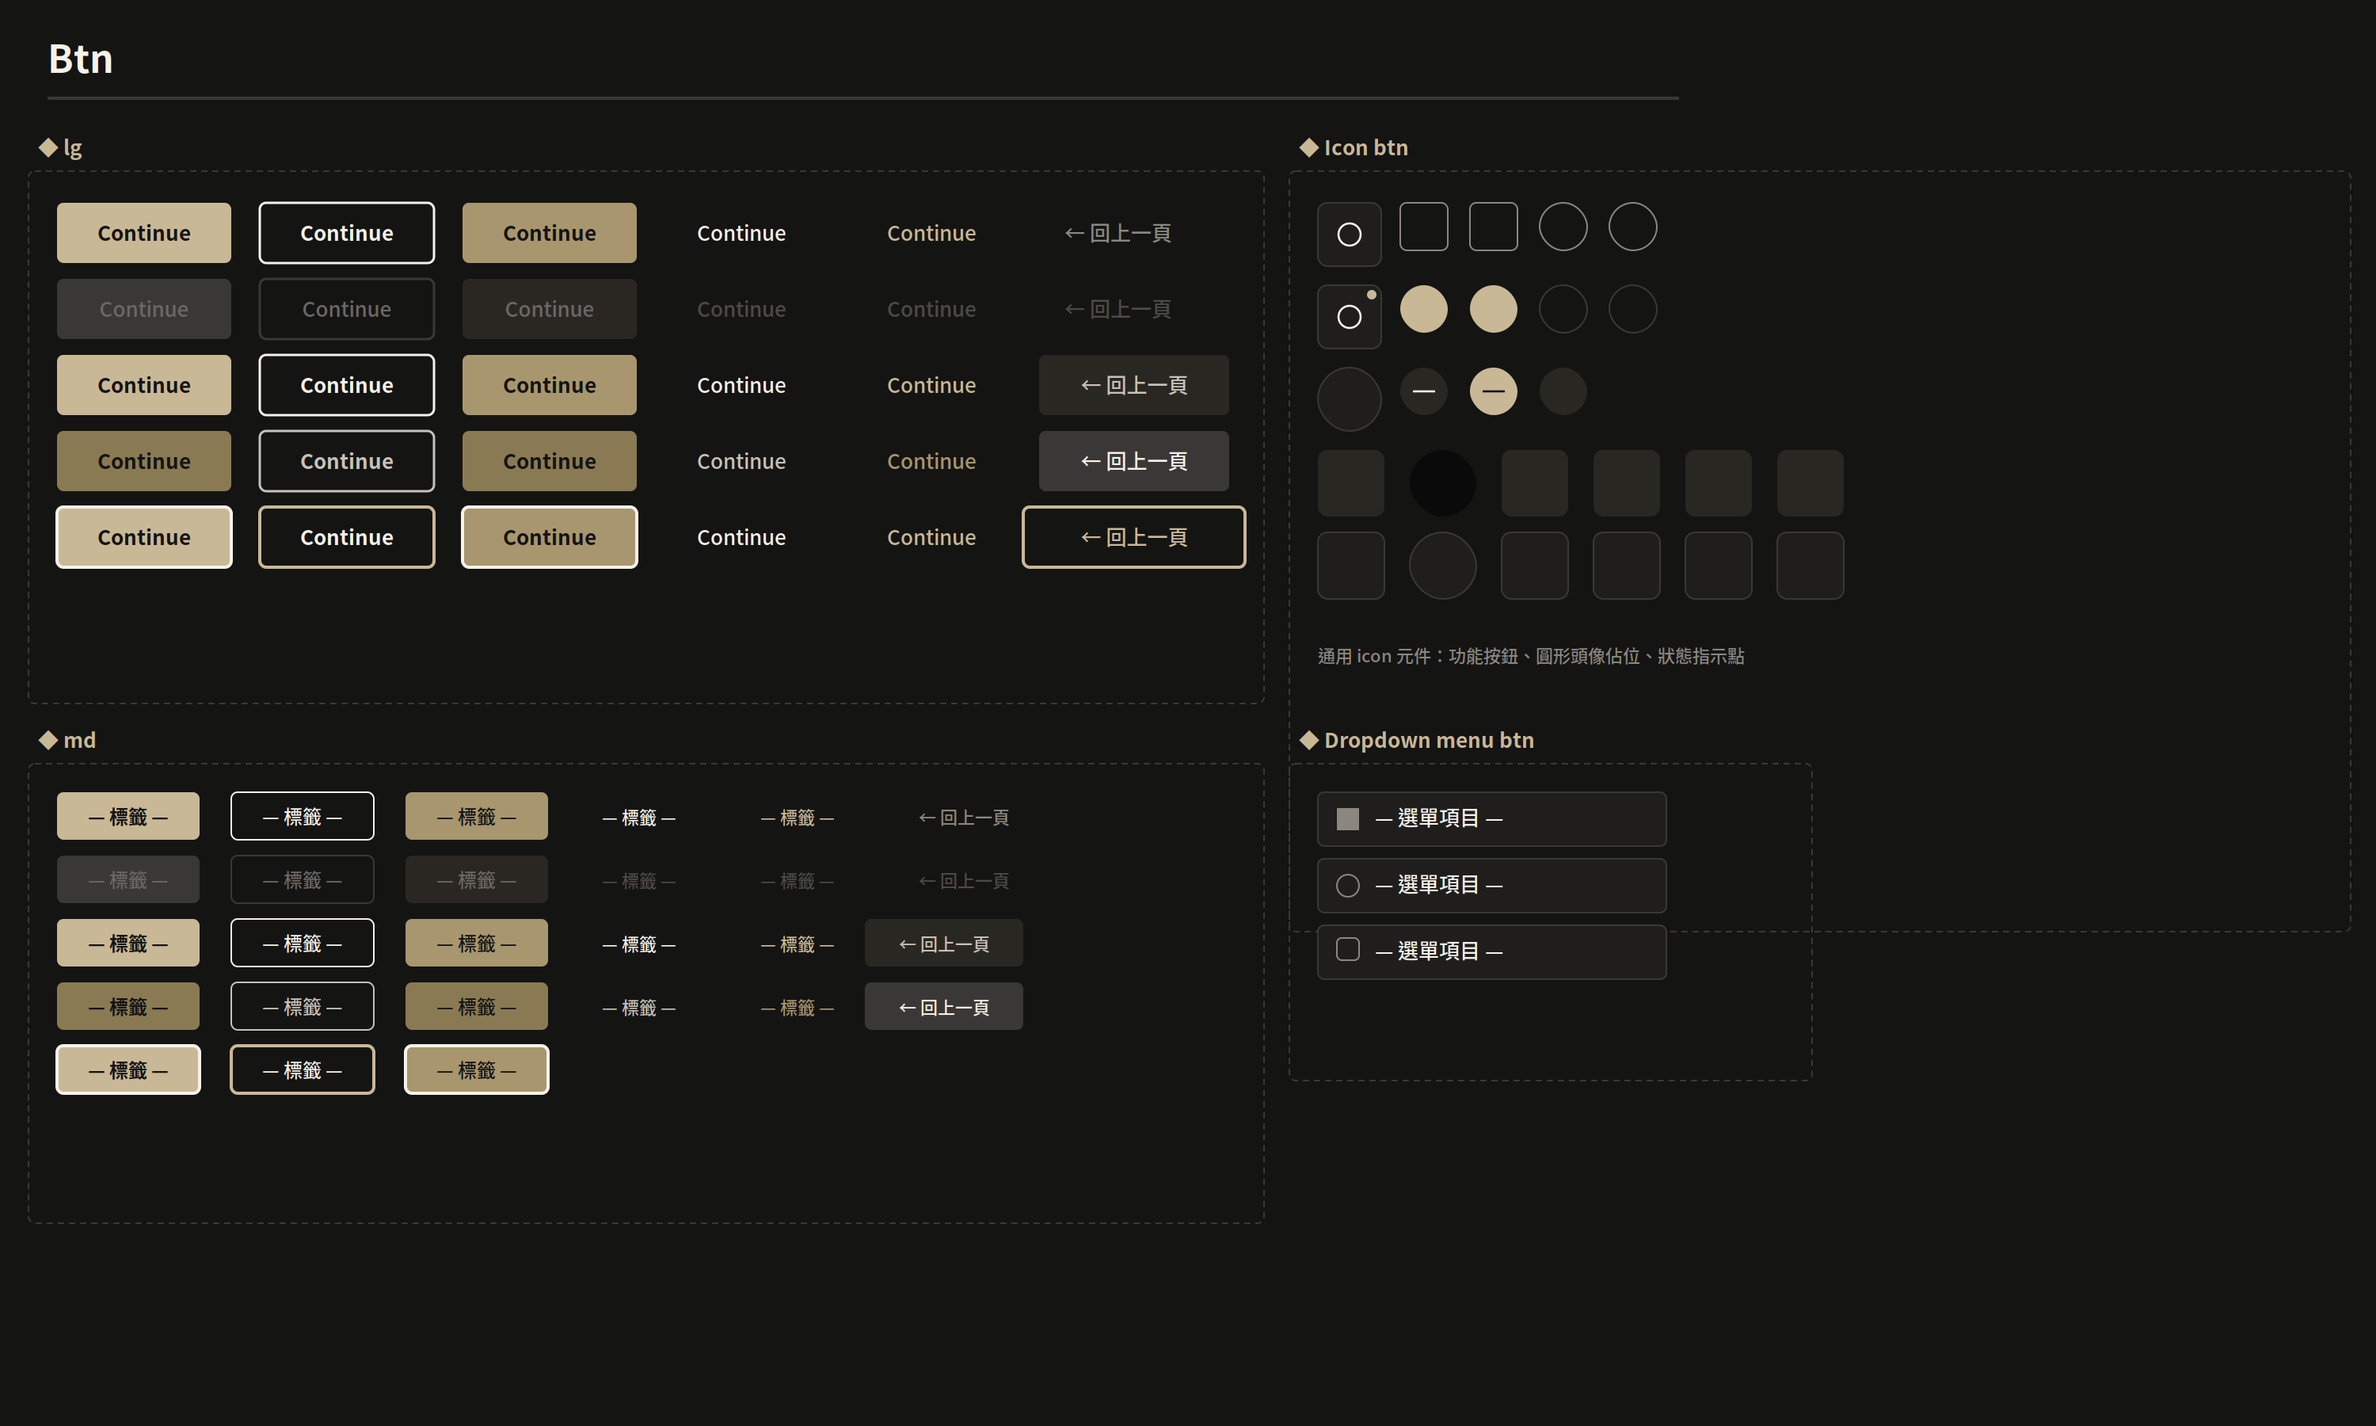
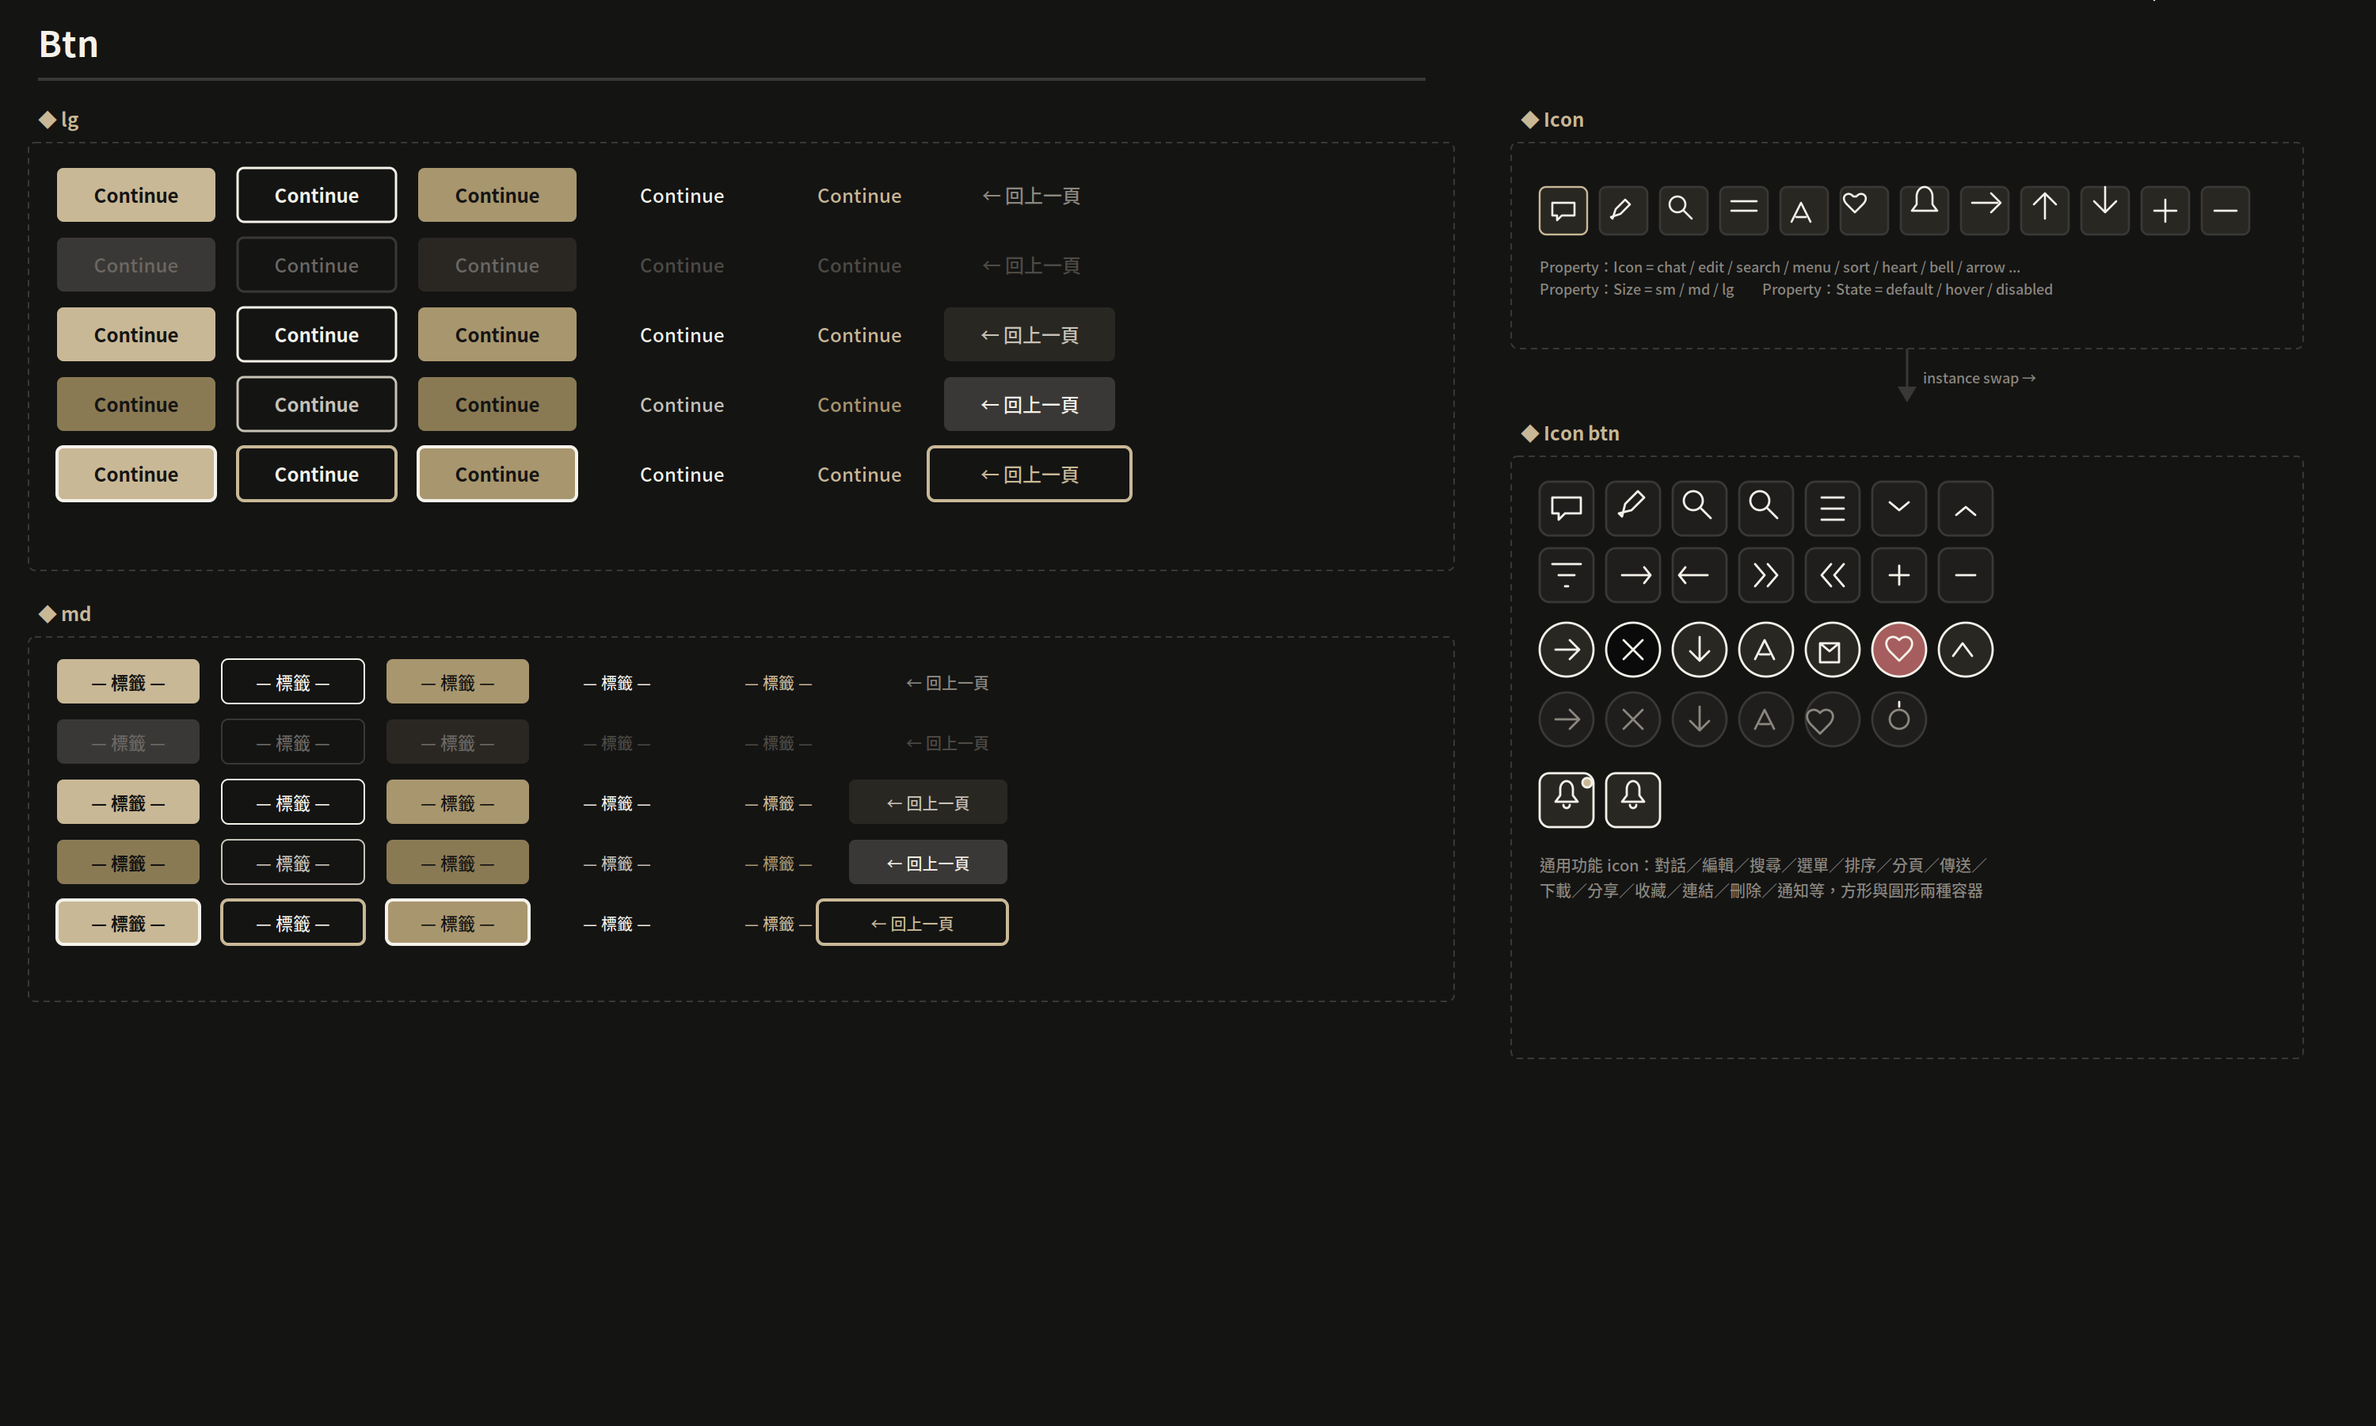
feat(channel-t): 導覽改為雙列固定 header
- 第一列：僅 wordmark（連回首頁），移除首頁按鈕與箭頭
- 第二列：12 個章節錨點單列水平排列、固定於下方，窄螢幕可水平捲動
- 主視覺錨點改名 TOP；連結字級 13→14px 提升可讀性
- 移除漢堡選單與捲動隱藏邏輯，header 恆固定；scroll-padding-top 88→120px
- 清除 nav__toggle / nav--hidden / nav__home 及相關 JS 與 !important 覆寫

diff --git a/channel-t/index.html b/channel-t/index.html
@@ -16,11 +16,14 @@
   <header class="nav" id="nav">
     <div class="nav__inner">
       <a href="../" class="nav__brand" aria-label="回到作品集首頁">Ryan Wu <span>Portfolio</span></a>
-      <button class="nav__toggle" id="navToggle" aria-label="開啟選單" aria-expanded="false">≡</button>
-      <ul class="nav__links" id="navLinks">
-        <li><a href="../" class="nav__home">← 首頁</a></li>
+    </div>
+    <nav class="subnav" aria-label="章節導覽">
+      <ul class="subnav__links">
+        <li><a href="#s1">TOP</a></li>
         <li><a href="#s2">關鍵產出</a></li>
+        <li><a href="#s3">專案概覽</a></li>
         <li><a href="#s4">問題探索</a></li>
+        <li><a href="#s5">專案限制</a></li>
         <li><a href="#s6">產品決策</a></li>
         <li><a href="#s7">UX 流程</a></li>
         <li><a href="#s8">UI 設計</a></li>
@@ -29,7 +32,7 @@
         <li><a href="#s11">商業驗證</a></li>
         <li><a href="#s12">專案回顧</a></li>
       </ul>
-    </div>
+    </nav>
   </header>
 
   <main id="top">
@@ -673,6 +676,11 @@
             <h4>一次完成上傳工作</h4>
             <p>更重要的改變，是使用者不需要等待前一個檔案解析完成，就可以繼續上傳下一份行程。即使 AI 本身的總解析時間沒有因此大幅縮短，使用者完成「上傳工作」所需要的等待與流程中斷大幅降低。這次設計真正解決的並不是 AI 的技術效能，而是<strong>將「AI 等待時間」與「使用者工作時間」解耦</strong>——系統背景處理 → 使用者持續工作 → 回頭確認結果。</p>
           </div>
+          <figure>
+            <img src="../assets/channel-t/s10-01-snackbar.png" alt="行程上架迭代示意圖：AI 解析由 Modal 改為右下角 Fixed Snackbar，背景處理並提供持續性進度回饋，使用者可離開頁面繼續工作" loading="lazy" onerror="this.style.display='none';this.nextElementSibling.style.display='flex';" />
+            <div class="figure__placeholder" style="display:none;">Modal → Fixed Snackbar — assets/channel-t/s10-01-snackbar.png</div>
+            <figcaption>行程上架：AI 解析由 Modal 改為 Fixed Snackbar，背景處理不中斷工作。<span class="figure__note">示意重製圖，非原始產品畫面</span></figcaption>
+          </figure>
         </div>
 
         <div class="block">
@@ -682,6 +690,11 @@
           <p>原先的設計，是將不同出發日期視為同一行程下的資訊，並將不同子團的資料內容整合至母團的共用欄位中——例如價格會從不同子團中抓取最低值，以「起」作為價格呈現，讓供給方與需求方透過站內聊天進一步確認細節。這樣的設計在初期可以簡化資訊呈現與資料結構，但也意味著不同子團原本各自具備的資訊被壓縮成母團層級的摘要資訊，使用者無法直接查看特定出發日期所對應的完整內容。</p>
           <p>因此，我與後端工程師重新定義母團與子團的資料關係：每一個子團依附於母團之下獨立存在，使用者可以直接依照不同出發日期查看對應的子團資訊。這使得需求方不需要再透過「最低價＋起」推測不同日期的實際內容，供需雙方在進一步聯繫時，也可以直接針對特定日期與特定行程進行溝通，降低資訊確認成本。</p>
           <p>這次資料欄位的重新檢視，也讓我們回頭比對不同資料來源所需要的資訊，重新整理共用的資料結構，使不同的行程上架方式都能建立在相同的產品資料模型上——AI 上架與系統介接只是資料進入平台的方式不同，但進入產品後應該使用一致的資料結構與使用體驗。這次迭代讓我重新認識到：UX 設計不只是處理畫面本身，當產品開始接觸真實資料後，資料結構本身也會直接影響使用者看到什麼、如何理解資訊，以及如何完成工作。</p>
+          <figure>
+            <img src="../assets/channel-t/s10-02-data-structure.png" alt="母團與子團資料結構迭代示意圖：從子團資訊壓縮為母團摘要（最低價＋起），改為每個子團依附母團獨立存在、可依出發日期查看完整內容" loading="lazy" onerror="this.style.display='none';this.nextElementSibling.style.display='flex';" />
+            <div class="figure__placeholder" style="display:none;">母團／子團資料結構 — assets/channel-t/s10-02-data-structure.png</div>
+            <figcaption>資料結構：母團／子團從摘要整合改為子團獨立、可依出發日期查看。<span class="figure__note">示意重製圖，非原始產品畫面</span></figcaption>
+          </figure>
         </div>
 
         <div class="block">
@@ -690,6 +703,11 @@
           <p>最初的設計中，行程完成解析後，需要由使用者手動設定行程標籤，這些標籤會作為後續搜尋與 AI 智能推薦的資料基礎，標籤的正確性直接影響使用者找到適合行程的效率。</p>
           <p>但實際使用後，我重新思考：如果 AI 已經能夠解析行程內容，是否還需要讓使用者花時間逐一判斷與設定標籤？因此，後續將標籤建立流程改為：AI 解析行程 → 根據既有標籤規則自動建立標籤 → 使用者確認與修改。AI 不再只是協助填入行程基本資料，也進一步參與行程分類，但我沒有完全取消人工控制，而是保留使用者修改標籤的介面。</p>
           <p>因此形成：<strong>AI 負責降低分類成本，使用者保留最終判斷權</strong>，也讓「資料建立」與「搜尋／推薦」之間形成更完整的產品閉環。</p>
+          <figure>
+            <img src="../assets/channel-t/s10-03-ai-tagging.png" alt="行程標籤迭代示意圖：從使用者手動設定標籤，改為 AI 解析行程後依既有規則自動建立標籤、再由使用者確認與修改" loading="lazy" onerror="this.style.display='none';this.nextElementSibling.style.display='flex';" />
+            <div class="figure__placeholder" style="display:none;">AI 輔助分類 — assets/channel-t/s10-03-ai-tagging.png</div>
+            <figcaption>行程標籤：從人工分類改為 AI 自動建立、使用者確認修改。<span class="figure__note">示意重製圖，非原始產品畫面</span></figcaption>
+          </figure>
         </div>
 
         <div class="block">
@@ -730,11 +748,6 @@
           <p class="block__id">S11-04</p>
           <h3>三次提案的演進</h3>
           <p>回頭看這三次提案，我認為它們其實反映了產品從概念走向市場的三個階段——從第一次的「這個產品有沒有價值？」，到第二次的「我們是否願意合作？」，再到第三次的「這個產品如何符合我們實際的商業情境？」，提案本身也隨著產品成熟度逐步從概念驗證走向商業驗證。而對我而言，這也完成了從研究使用者問題、定義產品策略、設計產品，到驗證產品價值的一個完整產品設計循環。</p>
-          <figure>
-            <img src="../assets/channel-t/s11-04-proposal-evolution.svg" alt="三次客戶提案的演進示意圖：從「產品有沒有價值」、「是否願意合作」到「如何符合實際商業情境」，對應概念驗證到商業驗證的三個階段" loading="lazy" onerror="this.style.display='none';this.nextElementSibling.style.display='flex';" />
-            <div class="figure__placeholder" style="display:none;">三次提案演進 — assets/channel-t/s11-04-proposal-evolution.svg</div>
-            <figcaption>三次提案的演進：從概念驗證逐步走向商業驗證。<span class="figure__note">示意重製圖，非原始產品畫面</span></figcaption>
-          </figure>
         </div>
       </div>
     </section>
@@ -803,42 +816,6 @@
 
   <script>
     (function () {
-      // 漢堡選單開合
-      var toggle = document.getElementById('navToggle');
-      var links = document.getElementById('navLinks');
-      if (toggle && links) {
-        toggle.addEventListener('click', function () {
-          var open = links.classList.toggle('is-open');
-          toggle.setAttribute('aria-expanded', open ? 'true' : 'false');
-        });
-        // 點擊連結後收合選單
-        links.addEventListener('click', function (e) {
-          if (e.target.tagName === 'A') {
-            links.classList.remove('is-open');
-            toggle.setAttribute('aria-expanded', 'false');
-          }
-        });
-      }
-
-      // 向下滾動隱藏 nav、向上滾動顯示
-      var nav = document.getElementById('nav');
-      var lastY = window.pageYOffset;
-      var ticking = false;
-      window.addEventListener('scroll', function () {
-        if (ticking) return;
-        ticking = true;
-        window.requestAnimationFrame(function () {
-          var y = window.pageYOffset;
-          if (y > lastY && y > 200 && !links.classList.contains('is-open')) {
-            nav.classList.add('nav--hidden');
-          } else {
-            nav.classList.remove('nav--hidden');
-          }
-          lastY = y;
-          ticking = false;
-        });
-      });
-
       // 圖片 Lightbox：點擊任一張圖放大檢視
       var lb = document.getElementById('lightbox');
       var lbImg = document.getElementById('lightboxImg');

diff --git a/style.css b/style.css
@@ -37,7 +37,7 @@
 
 html {
   scroll-behavior: smooth;
-  scroll-padding-top: 88px;
+  scroll-padding-top: 120px;
   -webkit-text-size-adjust: 100%;
 }
 
@@ -198,15 +198,12 @@ blockquote p {
   transition: transform 0.3s ease;
 }
 
-.nav.nav--hidden {
-  transform: translateY(-100%);
-}
-
+/* 第一列：wordmark + 首頁（space-between） */
 .nav__inner {
   max-width: var(--maxw);
   margin-inline: auto;
   padding: 0 var(--pad-desktop);
-  height: 64px;
+  height: 56px;
   display: flex;
   align-items: center;
   justify-content: space-between;
@@ -223,37 +220,65 @@ blockquote p {
   color: var(--sand);
 }
 
-.nav__links {
+/* 第二列：章節錨點，一列水平排列、固定於 wordmark 列下方 */
+.subnav {
+  border-top: 1px solid var(--stone-700);
+}
+
+.subnav__links {
   display: flex;
   align-items: center;
   gap: 26px;
+  list-style: none;
+  margin: 0 auto;
+  max-width: var(--maxw);
+  padding: 0 var(--pad-desktop);
+  height: 48px;
+  overflow-x: auto;
+  scrollbar-width: none;
+  -ms-overflow-style: none;
+}
+
+.subnav__links::-webkit-scrollbar {
+  display: none;
+}
+
+.subnav__links li {
+  margin: 0;
+}
+
+.subnav__links a {
+  color: var(--stone-300);
+  font-size: 14px;
+  letter-spacing: 0.02em;
+  white-space: nowrap;
+  transition: color 0.2s ease;
+}
+
+.subnav__links a:hover {
+  color: var(--sand);
+}
+
+/* 登陸頁單一連結列 */
+.nav__links {
+  display: flex;
+  align-items: center;
+  gap: 22px;
   list-style: none;
   margin: 0;
   padding: 0;
 }
 
 .nav__links a {
-  color: var(--stone-500);
+  color: var(--stone-300);
   font-size: 14px;
-  letter-spacing: 0.03em;
+  letter-spacing: 0.02em;
+  white-space: nowrap;
   transition: color 0.2s ease;
 }
 
 .nav__links a:hover {
   color: var(--stone-100);
-}
-
-.nav__toggle {
-  display: none;
-  background: none;
-  border: 1px solid var(--stone-700);
-  border-radius: var(--radius);
-  color: var(--stone-100);
-  width: 40px;
-  height: 36px;
-  cursor: pointer;
-  font-size: 16px;
-  line-height: 1;
 }
 
 /* --------------------------------------------------------------------------
@@ -584,10 +609,6 @@ figcaption {
 /* --------------------------------------------------------------------------
    登陸頁（landing）
    -------------------------------------------------------------------------- */
-.nav__home {
-  color: var(--stone-100) !important;
-}
-
 .landing-hero {
   min-height: 88vh;
   display: flex;
@@ -852,7 +873,8 @@ figcaption {
    -------------------------------------------------------------------------- */
 @media (max-width: 900px) {
   .container,
-  .nav__inner {
+  .nav__inner,
+  .subnav__links {
     padding-inline: var(--pad-tablet);
   }
 
@@ -867,10 +889,6 @@ figcaption {
   .card:last-child {
     grid-column: auto;
   }
-
-  .nav__links {
-    gap: 18px;
-  }
 }
 
 /* --------------------------------------------------------------------------
@@ -882,7 +900,8 @@ figcaption {
   }
 
   .container,
-  .nav__inner {
+  .nav__inner,
+  .subnav__links {
     padding-inline: var(--pad-mobile);
   }
 
@@ -897,50 +916,6 @@ figcaption {
 
   .hero__meta {
     gap: 28px;
-  }
-
-  /* nav 文字連結收起，改用漢堡選單 */
-  .nav__toggle {
-    display: block;
-  }
-
-  .nav__links {
-    position: absolute;
-    top: 64px;
-    left: 0;
-    right: 0;
-    flex-direction: column;
-    align-items: flex-start;
-    gap: 0;
-    background-color: rgba(10, 10, 10, 0.96);
-    backdrop-filter: blur(14px);
-    -webkit-backdrop-filter: blur(14px);
-    border-bottom: 1px solid var(--stone-700);
-    padding: 8px var(--pad-mobile) 16px;
-    max-height: 0;
-    overflow: hidden;
-    transition: max-height 0.3s ease;
-  }
-
-  .nav__links.is-open {
-    max-height: 80vh;
-  }
-
-  .nav__links li {
-    width: 100%;
-    margin: 0;
-    border-top: 1px solid var(--stone-700);
-  }
-
-  .nav__links li:first-child {
-    border-top: none;
-  }
-
-  .nav__links a {
-    display: block;
-    padding: 14px 0;
-    font-size: 15px;
-    color: var(--stone-300);
   }
 
   .meta-grid,
